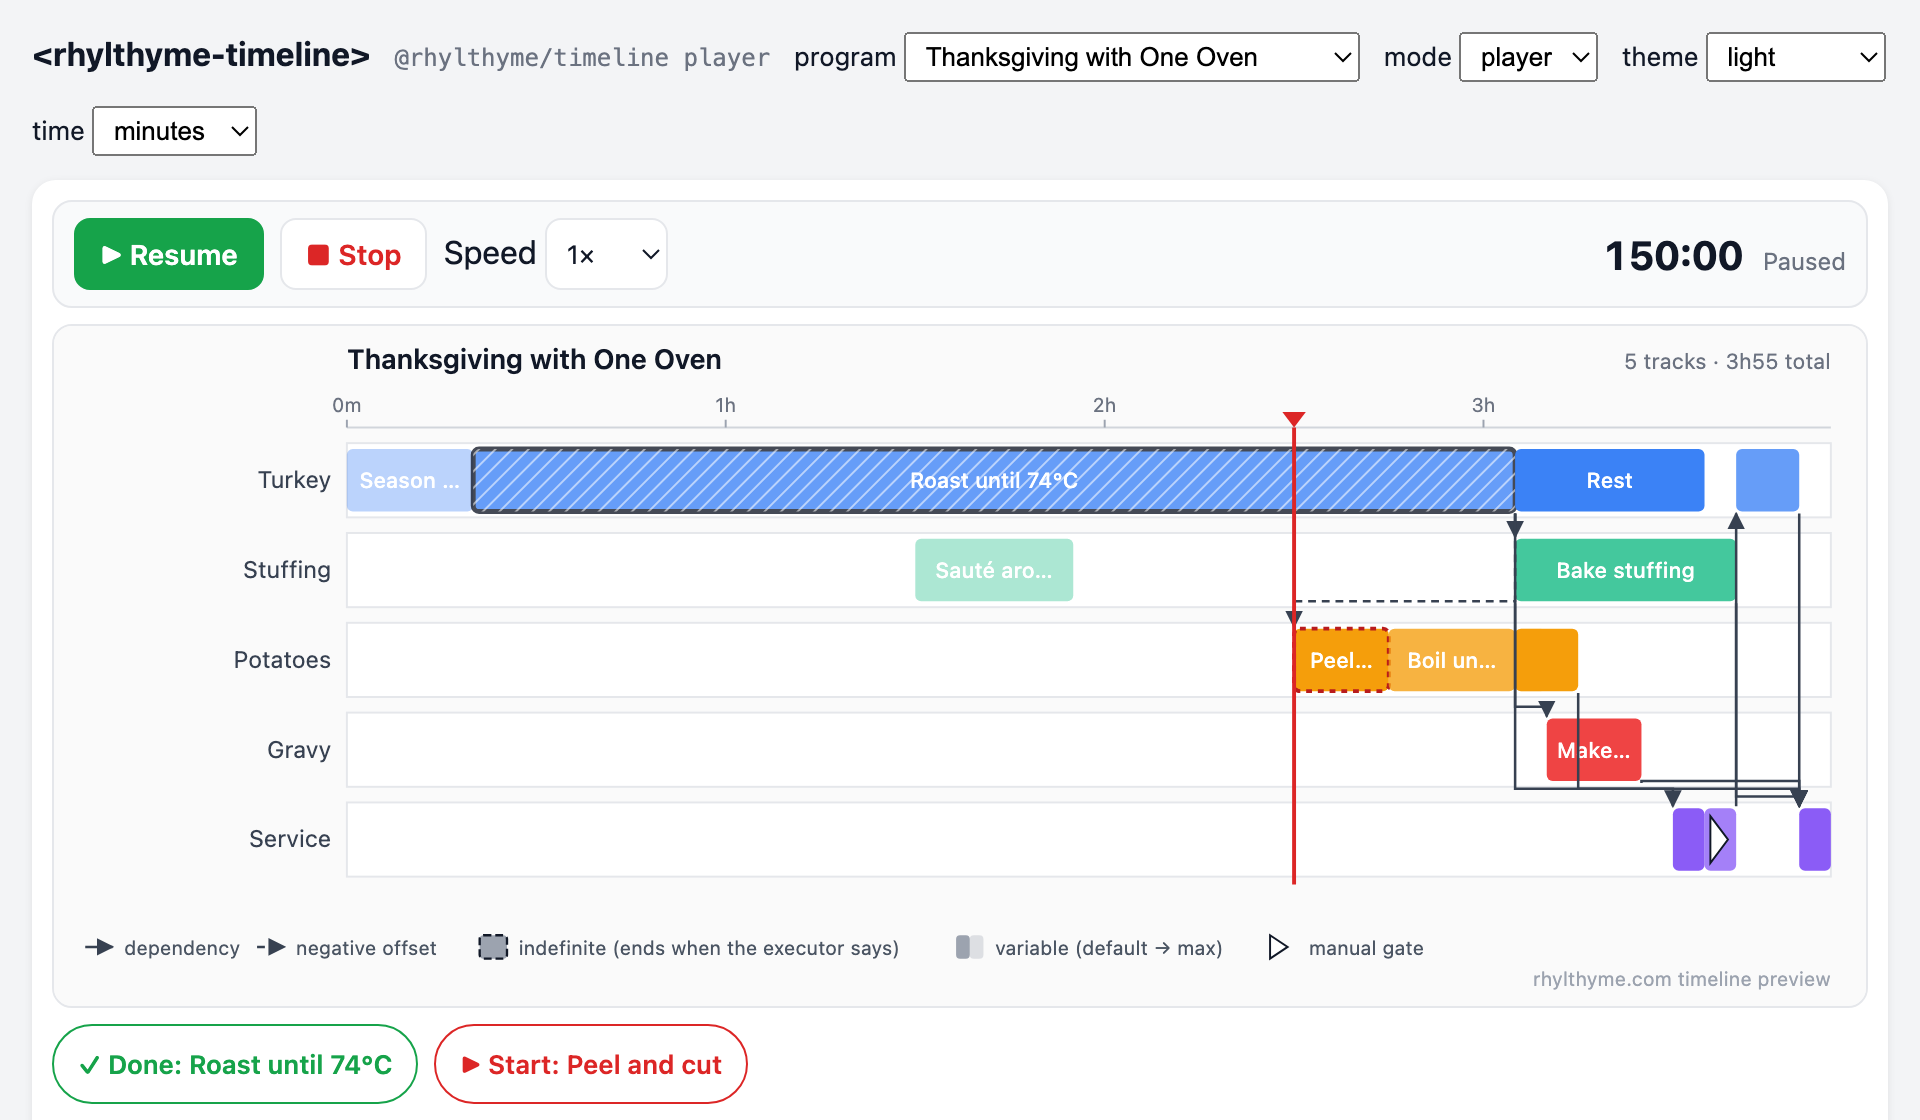
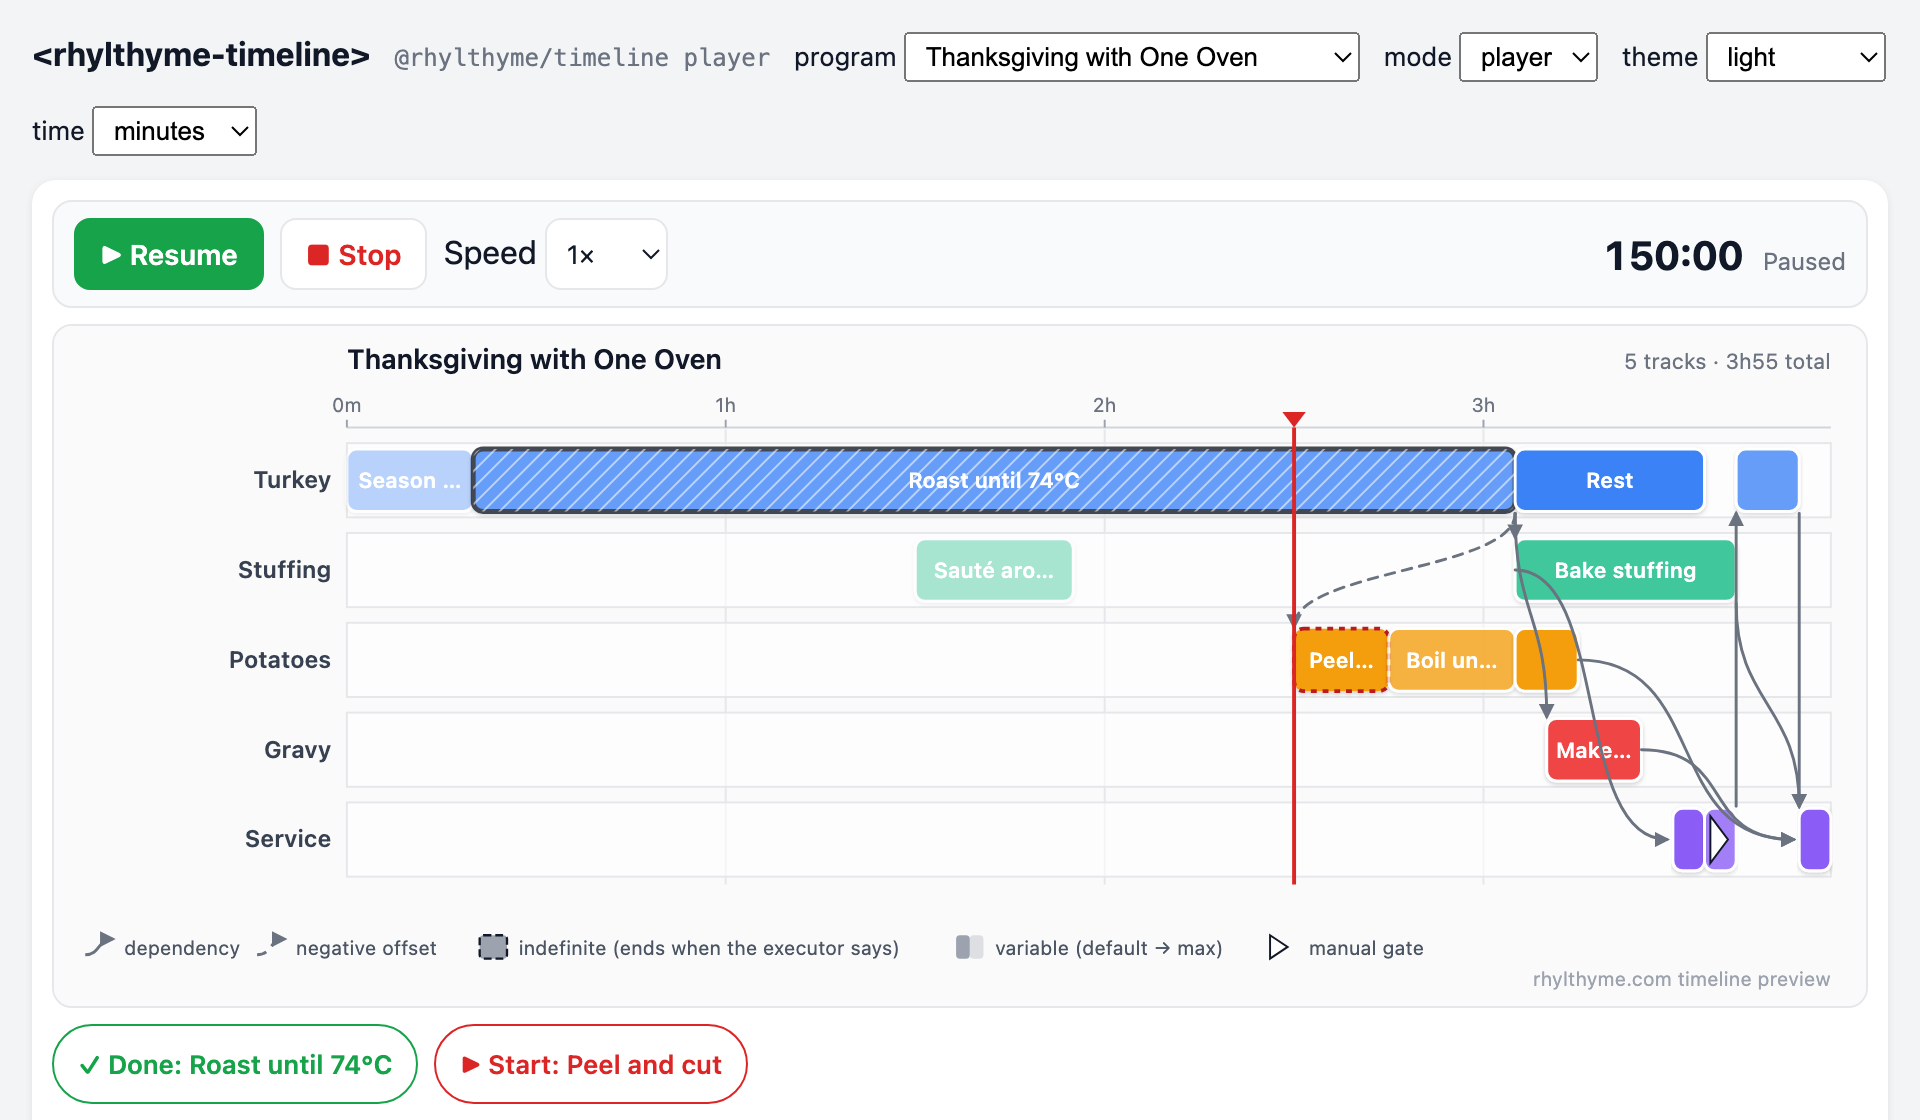
2.0.0-beta.2: SVG restyled to match the web player (Bezier edges, rounded shadowed bars, gridlines)
Claude-Session: https://claude.ai/code/session_01TnBNYEcXAjSAa9URrzLk8q

diff --git a/src/index.js b/src/index.js
@@ -1,5 +1,5 @@
 /*!
- * Rhylthyme timeline-render v2.0.0-beta.1
+ * Rhylthyme timeline-render v2.0.0-beta.2
  * (c) 2026 Rhylthyme contributors. Released under the Apache License 2.0.
  * Source: https://github.com/rhylthyme/rhylthyme-timeline
  *
@@ -503,8 +503,10 @@
       + 'font-family="-apple-system, BlinkMacSystemFont, \'Segoe UI\', sans-serif">'
     );
     parts.push('<defs>'
-      + '<marker id="rt-arrow" viewBox="0 0 10 10" refX="9" refY="5" markerWidth="7" markerHeight="7" orient="auto-start-reverse">'
-      + '<path d="M0,0 L10,5 L0,10 z" fill="#374151"/></marker>'
+      + '<marker id="rt-arrow" viewBox="0 0 10 10" refX="8" refY="5" markerWidth="8" markerHeight="8" markerUnits="userSpaceOnUse" orient="auto">'
+      + '<path d="M0,0 L10,5 L0,10 z" fill="#6b7280"/></marker>'
+      + '<filter id="rt-shadow" x="-5%" y="-20%" width="110%" height="150%">'
+      + '<feDropShadow dx="0" dy="1" stdDeviation="1" flood-color="#000000" flood-opacity="0.18"/></filter>'
       + '<pattern id="rt-hatch" width="6" height="6" patternUnits="userSpaceOnUse" patternTransform="rotate(45)">'
       + '<rect width="6" height="6" fill="#ffffff" fill-opacity="0"/><line x1="0" y1="0" x2="0" y2="6" stroke="#ffffff" stroke-opacity="0.55" stroke-width="2"/></pattern>'
       + '</defs>');
@@ -534,12 +536,17 @@
     else if (globalEnd <= 90 * 60) tickInterval = 15 * 60;
     else if (globalEnd <= 180 * 60) tickInterval = 30 * 60;
     else tickInterval = 60 * 60;
+    var rowsBottom = H_HEADER + tracks.length * H_TRACK;
     for (var t = 0; t <= globalEnd; t += tickInterval) {
       var x = xOf(t);
       parts.push(
         '<line x1="' + x.toFixed(1) + '" y1="' + (axisY - 4) + '" x2="' + x.toFixed(1)
         + '" y2="' + axisY + '" stroke="#9ca3af" stroke-width="1"/>'
       );
+      if (t > 0) {
+        parts.push('<line x1="' + x.toFixed(1) + '" y1="' + (axisY + 1) + '" x2="' + x.toFixed(1)
+          + '" y2="' + rowsBottom + '" stroke="#e5e7eb" stroke-width="1"/>');
+      }
       parts.push(
         '<text x="' + x.toFixed(1) + '" y="' + (axisY - 8) + '" font-size="10" '
         + 'fill="#6b7280" text-anchor="middle">' + fmtMin(t) + '</text>'
@@ -554,11 +561,11 @@
       var trackLabel = trackName.length > 18 ? trackName.slice(0, 16) + '…' : trackName;
       parts.push(
         '<text x="' + (PAD_LEFT - 8) + '" y="' + (barMid(ti) + 4)
-        + '" font-size="12" fill="#374151" text-anchor="end">' + esc(trackLabel) + '</text>'
+        + '" font-size="12" font-weight="600" fill="#374151" text-anchor="end">' + esc(trackLabel) + '</text>'
       );
       parts.push(
         '<rect x="' + PAD_LEFT + '" y="' + (y + 4) + '" width="' + BAR_W
-        + '" height="' + (H_TRACK - 8) + '" fill="#ffffff" stroke="#e5e7eb"/>'
+        + '" height="' + (H_TRACK - 8) + '" fill="#ffffff" fill-opacity="0.6" stroke="#e5e7eb"/>'
       );
       (track.steps || []).forEach(function (step, si) {
         var tim = timings[step.stepId];
@@ -578,21 +585,21 @@
           var xMax = xOf(tim.start + parseSeconds(d.maxSeconds));
           if (xMax > x2 + 1) {
             parts.push('<rect x="' + x2.toFixed(1) + '" y="' + barTop(ti) + '" width="' + (xMax - x2).toFixed(1)
-              + '" height="' + BAR_H + '" fill="' + color + '" opacity="0.3" rx="3" ry="3"/>');
+              + '" height="' + BAR_H + '" fill="' + color + '" opacity="0.3" rx="5" ry="5"/>');
           }
         }
-        var stroke = '';
+        var stroke = ' stroke="#ffffff" stroke-width="1.5"';
         if (state === 'active') stroke = ' stroke="#111827" stroke-width="2.5"';
         else if (state === 'waiting') stroke = ' stroke="#b91c1c" stroke-width="2" stroke-dasharray="3,3"';
         else if (isIndef) stroke = ' stroke="#111827" stroke-width="1.5" stroke-dasharray="5,3"';
         parts.push(
           '<rect class="rt-bar' + (state ? ' rt-' + state : '') + '" data-step="' + esc(step.stepId) + '" x="' + x1.toFixed(1) + '" y="' + barTop(ti) + '" width="' + w.toFixed(1)
           + '" height="' + BAR_H + '" fill="' + color + '" opacity="' + opacity
-          + '" rx="3" ry="3"' + stroke + '/>'
+          + '" rx="5" ry="5" filter="url(#rt-shadow)"' + stroke + '/>'
         );
         if (isIndef) {
           parts.push('<rect x="' + x1.toFixed(1) + '" y="' + barTop(ti) + '" width="' + w.toFixed(1)
-            + '" height="' + BAR_H + '" fill="url(#rt-hatch)" rx="3" ry="3"/>');
+            + '" height="' + BAR_H + '" fill="url(#rt-hatch)" rx="5" ry="5"/>');
         }
         if (isManual) {
           // Hand-off flag: a small white triangle at the left edge.
@@ -610,7 +617,7 @@
           parts.push(
             '<text x="' + (x1 + w / 2 + (isManual ? 6 : 0)).toFixed(1) + '" y="' + (barMid(ti) + 4)
             + '" font-size="11" fill="#ffffff" text-anchor="middle" '
-            + 'font-weight="500">' + esc(display) + '</text>'
+            + 'font-weight="600">' + esc(display) + '</text>'
           );
         }
       });
@@ -634,18 +641,35 @@
             var neg = parseSeconds(tr.offsetSeconds) < 0;
             var xFrom = xOf(fromT), xTo = xOf(tim.start);
             var yFrom = barMid(rowOfTrack[refTrack]), yTo = barMid(ti);
-            var dir = yTo > yFrom ? 1 : -1;
-            var yLeave = yFrom + dir * (BAR_H / 2 + 1);
-            var yEnter = yTo - dir * (BAR_H / 2 + 1);
-            // Vertical drop from the anchor, horizontal run, vertical arrival.
-            // Stagger the horizontal run so arrows into the same row do not overprint.
-            var yMid = yEnter - dir * (5 + 4 * (arrowCount++ % 3));
-            var path = 'M' + xFrom.toFixed(1) + ',' + yLeave.toFixed(1)
-              + ' L' + xFrom.toFixed(1) + ',' + yMid.toFixed(1)
-              + ' L' + xTo.toFixed(1) + ',' + yMid.toFixed(1)
-              + ' L' + xTo.toFixed(1) + ',' + yEnter.toFixed(1);
-            parts.push('<path d="' + path + '" fill="none" stroke="#374151" stroke-width="1.3"'
-              + (neg ? ' stroke-dasharray="4,3"' : '') + ' marker-end="url(#rt-arrow)"/>');
+            // Leave the referenced bar at its anchor edge, arrive at the left
+            // edge of the dependent bar, as a smooth S-curve (cubic Bezier)
+            // in the style of the web player. The horizontal reach of the
+            // control points grows with the distance so short hops stay
+            // tight and long ones sweep.
+            var dx = xTo - xFrom;
+            var xEnd = xTo - 3;
+            var path;
+            if (dx >= 40) {
+              // Forward hop: leave to the right, arrive from the left.
+              var reach = Math.max(28, Math.min(120, dx * 0.6));
+              path = 'M' + xFrom.toFixed(1) + ',' + yFrom.toFixed(1)
+                + ' C' + (xFrom + reach).toFixed(1) + ',' + yFrom.toFixed(1)
+                + ' ' + (xEnd - reach).toFixed(1) + ',' + yTo.toFixed(1)
+                + ' ' + xEnd.toFixed(1) + ',' + yTo.toFixed(1);
+            } else {
+              // Near-vertical or backward hop (a negative offset): leave the
+              // bar's bottom or top edge and drop into the target's edge.
+              var dir = yTo > yFrom ? 1 : -1;
+              var y0 = yFrom + dir * (BAR_H / 2 + 1), y1 = yTo - dir * (BAR_H / 2 + 1);
+              var reachY = Math.max(12, Math.abs(y1 - y0) * 0.5);
+              path = 'M' + xFrom.toFixed(1) + ',' + y0.toFixed(1)
+                + ' C' + xFrom.toFixed(1) + ',' + (y0 + dir * reachY).toFixed(1)
+                + ' ' + xTo.toFixed(1) + ',' + (y1 - dir * reachY).toFixed(1)
+                + ' ' + xTo.toFixed(1) + ',' + y1.toFixed(1);
+            }
+            arrowCount++;
+            parts.push('<path class="rt-edge" d="' + path + '" fill="none" stroke="#6b7280" stroke-width="1.5" stroke-linecap="round"'
+              + (neg ? ' stroke-dasharray="5,4"' : '') + ' marker-end="url(#rt-arrow)"/>');
           });
         });
       });
@@ -668,8 +692,8 @@
         parts.push('<text x="' + (x + 20) + '" y="' + (ly + 4) + '" font-size="10" fill="#4b5563">' + esc(label) + '</text>');
         return x + 20 + label.length * 5.2 + 16;
       }
-      lx = key(lx, function (x, y) { return '<path d="M' + x + ',' + y + ' h14" stroke="#374151" stroke-width="1.3" marker-end="url(#rt-arrow)"/>'; }, 'dependency');
-      lx = key(lx, function (x, y) { return '<path d="M' + x + ',' + y + ' h14" stroke="#374151" stroke-width="1.3" stroke-dasharray="4,3" marker-end="url(#rt-arrow)"/>'; }, 'negative offset');
+      lx = key(lx, function (x, y) { return '<path d="M' + x + ',' + (y + 4) + ' C' + (x + 8) + ',' + (y + 4) + ' ' + (x + 6) + ',' + (y - 4) + ' ' + (x + 14) + ',' + (y - 4) + '" fill="none" stroke="#6b7280" stroke-width="1.5" marker-end="url(#rt-arrow)"/>'; }, 'dependency');
+      lx = key(lx, function (x, y) { return '<path d="M' + x + ',' + (y + 4) + ' C' + (x + 8) + ',' + (y + 4) + ' ' + (x + 6) + ',' + (y - 4) + ' ' + (x + 14) + ',' + (y - 4) + '" fill="none" stroke="#6b7280" stroke-width="1.5" stroke-dasharray="5,4" marker-end="url(#rt-arrow)"/>'; }, 'negative offset');
       lx = key(lx, function (x, y) { return '<rect x="' + x + '" y="' + (y - 6) + '" width="14" height="12" fill="#9ca3af" stroke="#111827" stroke-width="1.2" stroke-dasharray="4,2" rx="2"/>'; }, 'indefinite (ends when the executor says)');
       lx = key(lx, function (x, y) { return '<rect x="' + x + '" y="' + (y - 6) + '" width="7" height="12" fill="#9ca3af" rx="2"/><rect x="' + (x + 7) + '" y="' + (y - 6) + '" width="7" height="12" fill="#9ca3af" opacity="0.3" rx="2"/>'; }, 'variable (default → max)');
       lx = key(lx, function (x, y) { return '<path d="M' + x + ',' + (y - 6) + ' l9,6 l-9,6 z" fill="#ffffff" stroke="#111827" stroke-width="1"/>'; }, 'manual gate');
@@ -695,7 +719,7 @@
   }
 
   return {
-    version: '2.0.0-beta.1',
+    version: '2.0.0-beta.2',
     // Program schema versions this engine understands; bumped in step
     // with the package's minor version when new trigger/duration forms
     // are added.

diff --git a/test/engine.test.js b/test/engine.test.js
@@ -85,7 +85,7 @@ test("renderTimelineSvg draws arrows, marks and legend, and can switch them off"
   const svg = R.renderTimelineSvg(p);
   assert.ok(svg.startsWith("<svg"));
   assert.ok(svg.includes('marker-end="url(#rt-arrow)"'), "dependency arrows");
-  assert.ok(svg.includes('stroke-dasharray="4,3"'), "negative-offset arrow");
+  assert.ok(svg.includes('class="rt-edge"') && svg.includes('stroke-dasharray="5,4"'), "negative-offset arrow");
   assert.ok(svg.includes('fill="url(#rt-hatch)"'), "indefinite hatch");
   assert.ok(svg.includes("manual gate"), "legend");
   const plain = R.renderTimelineSvg(p, { arrows: false, marks: false, legend: false });

diff --git a/CHANGELOG.md b/CHANGELOG.md
@@ -3,6 +3,17 @@
 All notable changes to this package are documented here. The format follows
 Keep a Changelog; versions follow SemVer.
 
+## [2.0.0-beta.2] - 2026-09-10
+
+### Changed
+- `renderTimelineSvg` restyled to match the web player: dependency edges
+  are cubic Bézier S-curves (horizontal for forward hops, vertical for
+  near-vertical and backward negative-offset hops) with a fixed-size
+  arrowhead; bars have larger rounded corners, a white outline and a soft
+  drop shadow; light vertical gridlines run down from the axis ticks;
+  track labels and bar labels are semibold. Bars keep `class="rt-bar"`
+  and `data-step`; edges gain `class="rt-edge"`.
+
 ## [2.0.0-beta.1] - 2026-09-09
 
 Pre-release of the player Web Component. The engine API is unchanged and
